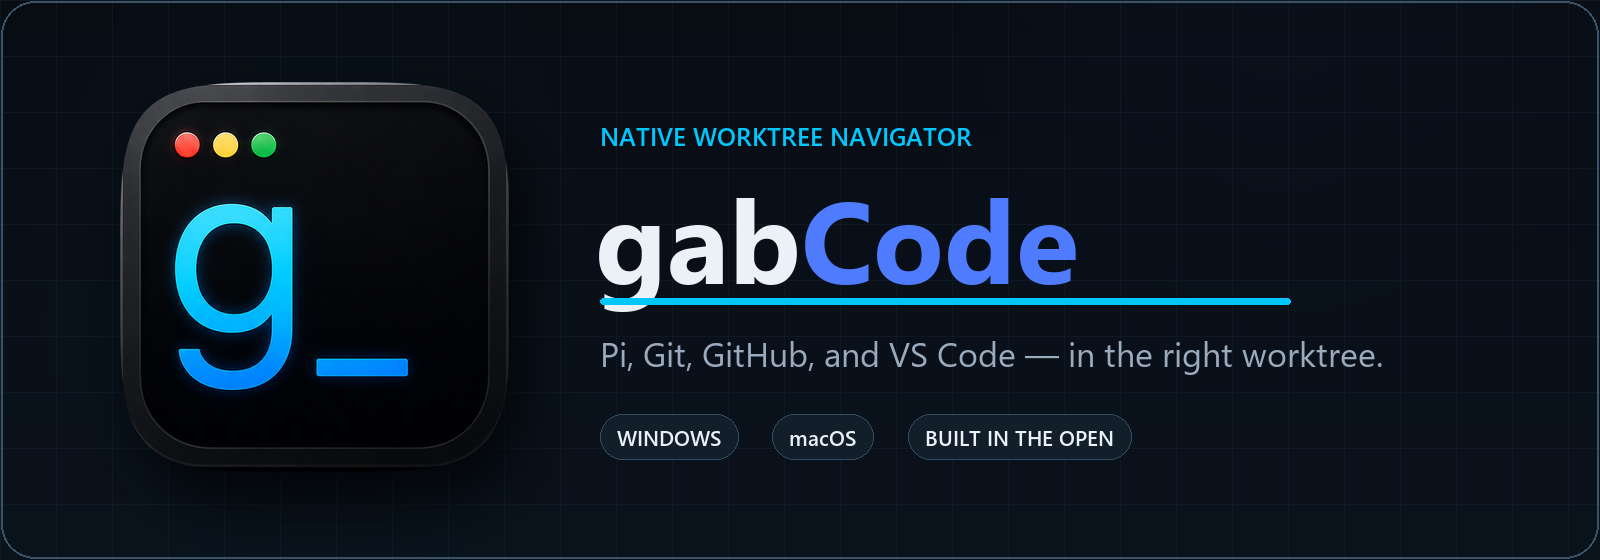
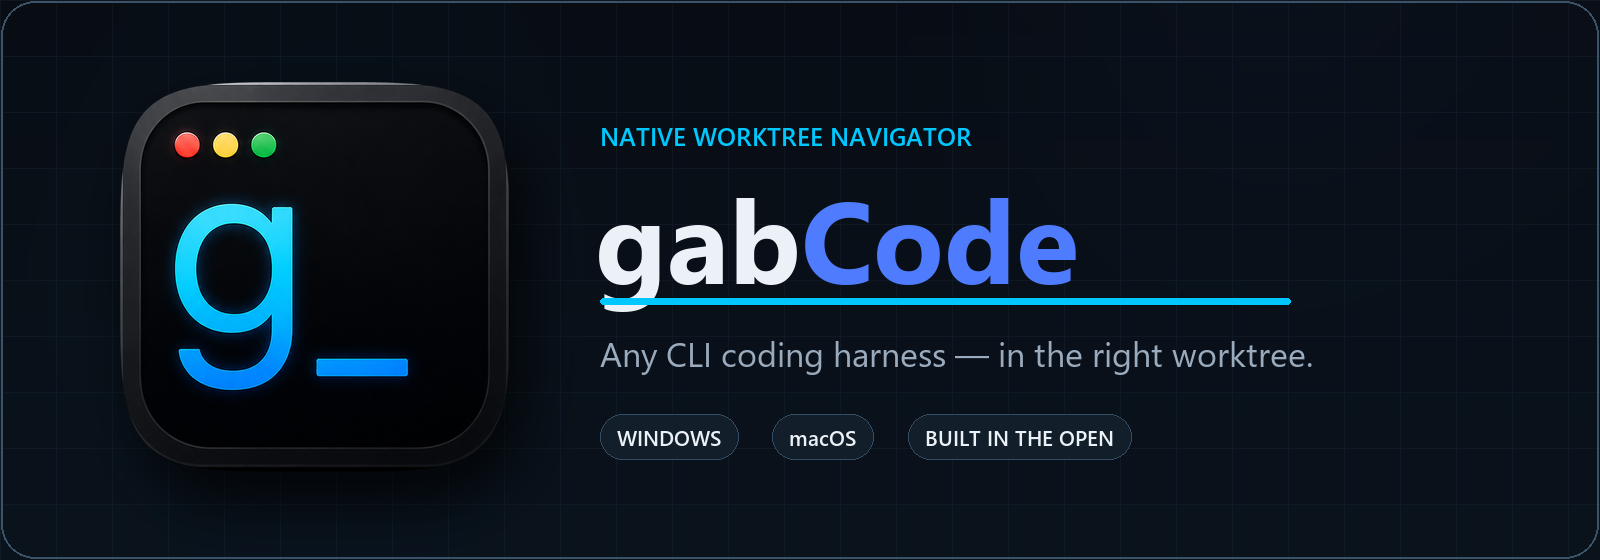
docs: make CLI harness support generic

Changed region(s): [[0.375, 0.6071, 0.875, 0.6679]]

diff --git a/Documentation/design/gabcode-initial-prd.md b/Documentation/design/gabcode-initial-prd.md
@@ -12,17 +12,17 @@ The approved independent-native-client decision is recorded in `Documentation/de
 
 ## Product Name & One-Liner
 
-**gabCode** is a native Windows and macOS desktop application for navigating Git worktrees and observing the work happening inside each one without replacing Pi, GitHub, Git, or VS Code.
+**gabCode** is a native Windows and macOS desktop application for navigating Git worktrees and observing the work happening inside each one without replacing the user's CLI coding harness, GitHub, Git, or VS Code.
 
 ## Problem & Audience
 
-A developer using Pi across multiple Git worktrees needs to move quickly between independent pieces of work. VS Code can open each worktree, but it does not provide one clear place to see all worktrees, their terminals, current changes, commits, requirements, and GitHub issues.
+A developer using CLI coding harnesses across multiple Git worktrees needs to move quickly between independent pieces of work. VS Code can open each worktree, but it does not provide one clear place to see all worktrees, their terminals, current changes, commits, requirements, and GitHub issues.
 
 gabCode is initially for a single developer who:
 
 - Works locally on Windows and macOS.
 - Uses one Git repository per project with several worktrees.
-- Runs Pi and command-line tools inside those worktrees.
+- Runs a CLI coding harness and other command-line tools inside those worktrees.
 - Uses PRDs under `Documentation/design` and GitHub issues to describe work.
 - Uses VS Code when source files need to be edited.
 
@@ -75,7 +75,7 @@ A worktree disappears from gabCode when it is no longer returned by Git. gabCode
 
 ### 3. Two Native Terminals per Worktree — Must-have
 
-Each opened worktree has two independent, generic terminals. gabCode does not assign either terminal a Pi, build, test, Git, or other role; the user may run any local command in either terminal.
+Each opened worktree has two independent, generic terminals. gabCode does not prescribe a CLI harness, build, test, Git, or any other role for either terminal; the user may run any local command in either terminal.
 
 Both terminals:
 
@@ -86,7 +86,7 @@ Both terminals:
 - Have bounded in-memory scrollback.
 - Do not persist output after gabCode exits.
 
-gabCode does not inspect terminal content, understand Pi commands, track Pi session identifiers, or run `pi --resume`. Both terminals are ordinary user-controlled shells.
+gabCode does not inspect terminal content, understand commands issued to a CLI harness, track harness session identifiers, or start or resume harness sessions. Both terminals are ordinary user-controlled shells.
 
 On Windows, terminals use the user's configured Windows Terminal default profile when it can be resolved. The fallback order is a gabCode-configured shell, `pwsh`, Windows PowerShell, then `cmd.exe`. On macOS, terminals use the user's configured login shell.
 
@@ -147,7 +147,7 @@ The action opens the current worktree's file, preferably at the relevant line an
 
 ### 8. Local Tool Diagnostics and Layout Persistence — Should-have
 
-- Detect `git`, `gh`, `pi`, and VS Code without installing or updating them.
+- Detect `git`, `gh`, VS Code, and user-configured CLI harness executables without installing or updating them.
 - Report executable paths, versions, and `gh` authentication state.
 - Disable only actions affected by a missing prerequisite.
 - Remember registered projects, path overrides, sidebar side and width, panel sizes, selected worktree, and user-selected associations.
@@ -158,8 +158,8 @@ The action opens the current worktree's file, preferably at the relevant line an
 gabCode will not:
 
 - Edit source files or PRDs.
-- Interpret Pi output, prompts, skills, or session history.
-- Start or resume Pi sessions automatically.
+- Interpret CLI coding-harness output, prompts, skills, or session history.
+- Start or resume CLI coding-harness sessions automatically.
 - Understand or enforce product-design, sprint, review, or release workflows.
 - Infer which PRD or GitHub issue belongs to a worktree.
 - Create, update, close, or comment on GitHub issues.
@@ -169,7 +169,7 @@ gabCode will not:
 - Archive worktrees after Git removes them.
 - Support multiple repositories inside one project in the initial version.
 - Provide hosted execution, team synchronization, or remote terminals.
-- Replace VS Code, GitHub, Git, Pi, or the user's shell.
+- Replace VS Code, GitHub, Git, the user's CLI coding harness, or the user's shell.
 - Install or update local developer tools.
 
 ## Technical Considerations

diff --git a/README.md b/README.md
@@ -12,7 +12,7 @@
 </p>
 
 <p align="center">
-  A native worktree navigator for developers using Pi, Git, GitHub, and VS Code.
+  A native worktree navigator for developers using CLI coding harnesses, Git, GitHub, and VS Code.
 </p>
 
 gabCode is being designed and built in the open. The repository currently establishes independent native Windows and macOS clients, embedded terminal foundations, and reproducible developer-preview packaging while the broader worktree-navigation experience continues to take shape.
@@ -25,13 +25,14 @@ gabCode is being designed and built in the open. The repository currently establ
 Parallel coding work becomes difficult when terminals, branches, reviews, and editor windows lose their shared context. gabCode is designed to make the active worktree obvious and keep the tools around it aligned—without introducing a second source of truth.
 
 - **Native on each platform** — dedicated WPF and SwiftUI clients instead of a web shell.
+- **Harness-agnostic** — use Pi, Claude Code, GitHub Copilot CLI, Codex CLI, or another CLI coding tool.
 - **Worktree-aware by design** — each coding session stays connected to the checkout it belongs to.
 - **Grounded in developer tools** — the filesystem, Git, and read-only GitHub state remain authoritative.
 - **Built for focused handoffs** — move from terminal context to review and editor context with less guesswork.
 
 ## Product direction
 
-![gabCode product direction: worktrees, Pi, Git and GitHub, and VS Code connected in one context](Documentation/media/readme/gabcode-workflow.png)
+![gabCode product direction: worktrees, a CLI coding harness, Git and GitHub, and VS Code connected in one context](Documentation/media/readme/gabcode-workflow.png)
 
 The [initial product requirements document](Documentation/design/gabcode-initial-prd.md) owns the product boundary, architecture direction, and planned milestones. gabCode is designed to observe source, pull requests, project documents, commits, and diffs without becoming a competing system of record.
 
@@ -134,6 +135,7 @@ The command validates the prepared inputs and generates a public prerelease desc
 - [Independent native clients architecture](Documentation/design/independent-native-clients-prd.md)
 - [Windows local preview workflow](Documentation/release/windows-unsigned-preview.md)
 - [macOS local preview workflow](Documentation/release/macos-unsigned-preview.md)
+- [Pi build orchestration](TOOL-PI.md) — contributor tooling used to build gabCode, not a runtime dependency
 
 ## License
 
